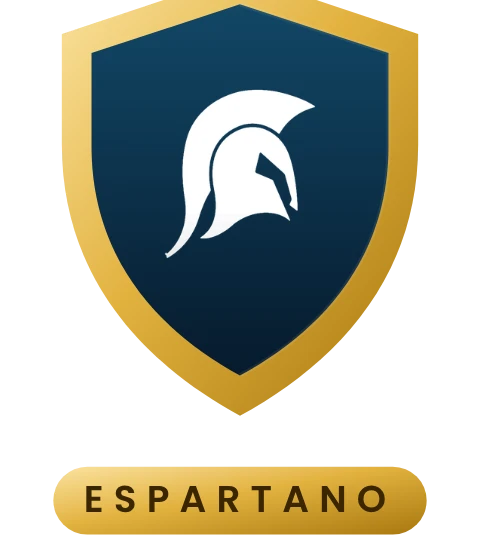
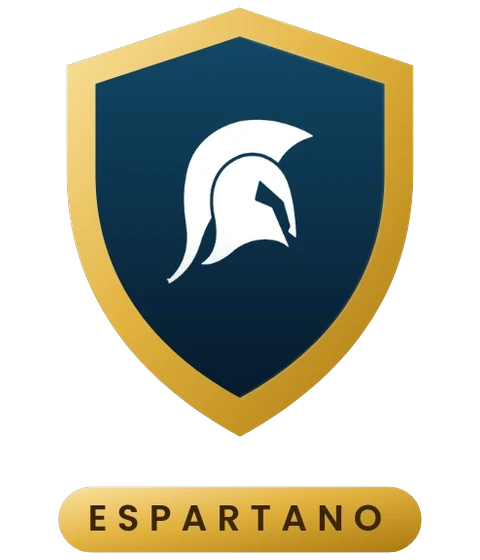
Diploma: punta del escudo Espartano completa e insignias sin deformar
Claude-Session: https://claude.ai/code/session_01Ap9s35NhKbdW3Dyth6SLE7

diff --git a/index.html b/index.html
@@ -8605,7 +8605,7 @@ async function npDiploma(P){const E=npEstado();if(!E)return;try{await flFonts()}
   T2("por completar el curso Networker Pro de Action Leaders",760,"500 30px ALO,Figtree,sans-serif","rgba(255,255,255,.8)");
   T2("SUS INSIGNIAS",850,"600 24px ALP,Poppins,sans-serif","#2AC1F1","8px");
   const I=P?P.ins:npIns(),lab={1:"Despegue",2:"Presentador",3:"Cerrador",4:"Duplicador",c:"Constancia",g:"Graduado"},sz=I.length>5?128:150,gap=I.length>5?22:26,x1=(W-(sz*I.length+gap*(I.length-1)))/2;
-  for(let i=0;i<I.length;i++){const im=await ld(insSrc(I[i].n));const x=x1+i*(sz+gap);if(im){g.save();if(!I[i].ok){g.globalAlpha=.28;try{g.filter="grayscale(1)"}catch(e){}}g.drawImage(im,x,880,sz,sz*im.height/im.width>sz?sz:sz*im.height/im.width);g.restore()}
+  for(let i=0;i<I.length;i++){const im=await ld(insSrc(I[i].n));const x=x1+i*(sz+gap);if(im){g.save();if(!I[i].ok){g.globalAlpha=.28;try{g.filter="grayscale(1)"}catch(e){}}{const r=im.width/im.height,dh=Math.min(sz,sz/r),dw=dh*r;g.drawImage(im,x+(sz-dw)/2,880+sz-dh,dw,dh)}g.restore()}
     g.font="600 22px ALO,Figtree,sans-serif";g.fillStyle=I[i].ok?"#fff":"rgba(255,255,255,.4)";g.textAlign="center";g.fillText(lab[I[i].n],x+sz/2,880+sz+32)}
   const fu=P?(P.fecha||TODAY):Object.values(E.s.d).sort().pop()||TODAY;
   if(P)return c;
@@ -9024,7 +9024,7 @@ const IR_W=[
 // 10 nov (Edwin): insignias espartanas dibujadas (bronce, plata, oro, celeste, graduado) en media/insignias/*.webp
 // 16 nov (Edwin): escudos v3 (bronce, plata, oro/acero, celeste, fuego) + sello Espartano. Cerrador: Premium = espadas · Classic = escudo (Líder).
 function irPaq(){try{const yo=nrmN(miNombreFull()||miRegistro().nombre||"");if(!yo)return "";const A=(T.activaciones||[]).filter(a=>nrmN(a.patrocinador||"")===yo);return A.some(a=>a.paquete==="Premium")?"Premium":A.length?"Classic":""}catch(e){return ""}}
-const INS_F=["","despegue","presentador","cerrador","duplicador"],insSrc=n=>"media/insignias/v3-"+(n==="g"?"espartano":n==="c"?"constancia":n===3&&irPaq()==="Classic"?"cerrador-l":INS_F[n]||"despegue")+".webp",insImg=(n,c)=>`<img src="${insSrc(n)}" alt="" class="${c||"insI"}" decoding="async">`;
+const INS_F=["","despegue","presentador","cerrador","duplicador"],insSrc=n=>"media/insignias/v3-"+(n==="g"?"espartano":n==="c"?"constancia":n===3&&irPaq()==="Classic"?"cerrador-l":INS_F[n]||"despegue")+".webp"+(n==="g"?"?v=2":""),insImg=(n,c)=>`<img src="${insSrc(n)}" alt="" class="${c||"insI"}" decoding="async">`;
 const IR_HERR_V=["pago","app","arr","work","yess","caja"]; // lista vieja (6): quien la completó se respeta
 const IR_HERR=[["alp","Instalé la app Action Leaders",1],["avisos","Activé mis avisos",1],["yess","Me registré en YessMovement"],["pres","Descargué la presentación"]];
 function irHerrAuto(k){try{if(k==="alp")return pushStandalone();if(k==="avisos")return typeof Notification!=="undefined"&&Notification.permission==="granted"&&!!LS.get("pushTk")}catch(e){}return false}
@@ -9887,7 +9887,7 @@ window.addEventListener("fb-auth",e=>{location.reload()});
 })();
 </script>
 <script>
-(function(){var V="20261117081223";var busy=false,pend=null;
+(function(){var V="20261117082142";var busy=false,pend=null;
  function go(t){var u=location.pathname+"?v="+t+location.hash;try{location.replace(u)}catch(e){location.reload()}}
  function idle(){var sh=document.getElementById("sheet"),w=document.getElementById("wel");var a=document.activeElement;
   return (!sh||sh.hidden)&&(!w||w.hidden)&&!(a&&/INPUT|TEXTAREA|SELECT/.test(a.tagName))}

diff --git a/CLAUDE.md b/CLAUDE.md
@@ -990,3 +990,4 @@ Cada vez que se publique una actualización de la app, hacer un flyer 1080×1350
 - 17 nov: LOGROS: enviar.mjs logros (en avisos-curso.yml, cada 15 min; push_meta/logros.t; 1.ª corrida solo marca hora): constancia np.n>=8 con np.t nuevo → admins «🎓 X terminó el curso Networker Pro»; users ir.esp nuevo → línea de arriba + admins «🛡 X se graduó…». m.v = fel_np_UID / fel_ir_UID (avDestino respeta m.v). App: avIr("fel_*") → felAbrir(t,uid): hoja con mensaje (FEL_LG, 2 variantes, «Otro mensaje») y «💬 Felicitar por WhatsApp» (registro.whatsapp de mios/socios o users/{uid}).
 
 - 17 nov: felAbrir ahora arma el DIPLOMA de la otra persona (npDiploma(P) con P={nombre,fecha,ins} y dipCanvas(P) con P={uid,reg,ir,npn}; sin P siguen siendo los propios) y botón «📣 Compartir diploma en los grupos» (share archivo + FEL_GR copiado; sin share: descarga + wa.me). Datos: mios/socios o users/{uid} y constancia/{uid}.np (1–2 lecturas al abrir).
+- (17 nov) Insignia Graduado (media/insignias/v3-espartano.webp) tenía la punta del escudo cortada arriba en la imagen original: se reconstruyó la punta dorada (misma inclinación 3 px/fila) y se reescaló dentro de 480×560 (insSrc("g") lleva ?v=2). npDiploma ya no aplasta las insignias: las dibuja con su proporción, alineadas abajo.
